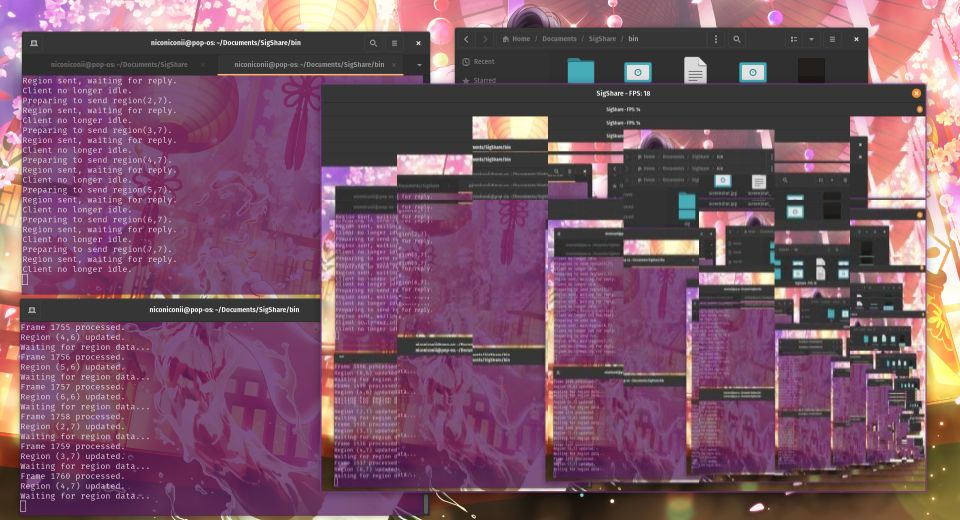
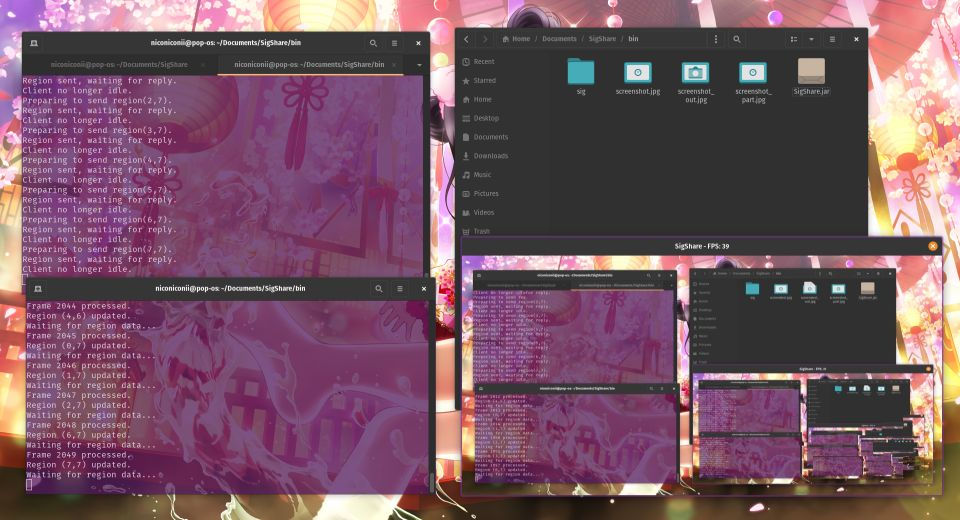
Break up display into pieces for fast updates

diff --git a/src/sig/SigShare.java b/src/sig/SigShare.java
@@ -35,12 +35,12 @@ public class SigShare {
 	static Robot r;
 	public static final String PROGRAM_NAME="SigShare";
 	public static double SCREEN_MULT=2;
-	public static int REGION_X_COUNT = 8;
-	public static int REGION_Y_COUNT = 8;
+	public static int REGION_X_COUNT = 12;
+	public static int REGION_Y_COUNT = 12;
 	public static int SCREEN_WIDTH=((int)(GraphicsEnvironment.getLocalGraphicsEnvironment().getMaximumWindowBounds().getWidth()/SCREEN_MULT)/REGION_X_COUNT)*REGION_X_COUNT;
 	public static int SCREEN_HEIGHT=((int)(GraphicsEnvironment.getLocalGraphicsEnvironment().getMaximumWindowBounds().getHeight()/SCREEN_MULT)/REGION_Y_COUNT)*REGION_Y_COUNT;
 	public static int[] img = new int[SCREEN_WIDTH*SCREEN_HEIGHT]; //Store the number of changes in the last 8 bits of ints. Use 2 ints per section, meaning an 8x8 section uses 128 integers to store 64 values.
-	public static int CHANGE_THRESHOLD = 1000;
+	public static int CHANGE_THRESHOLD = 500;
 	public static char[] changes = new char[REGION_X_COUNT*REGION_Y_COUNT];
 	public static int REGION_WIDTH = SCREEN_WIDTH/REGION_X_COUNT;
 	public static int REGION_HEIGHT = SCREEN_HEIGHT/REGION_Y_COUNT;
